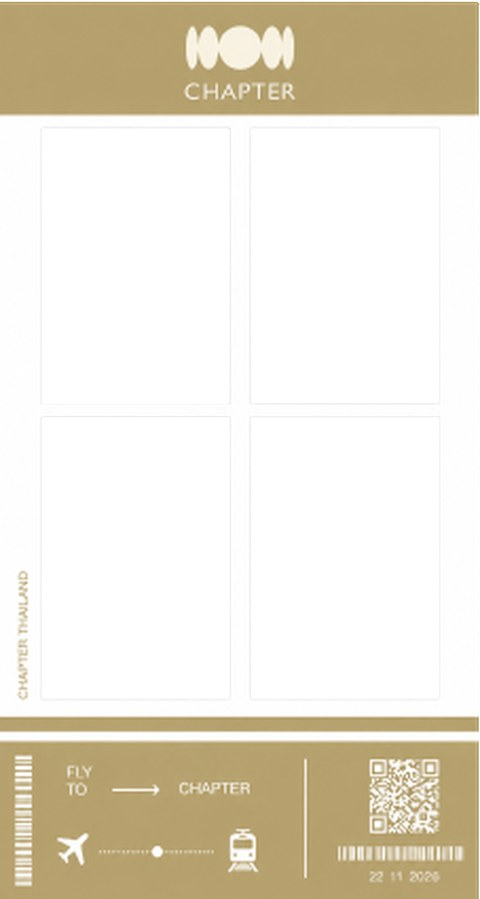
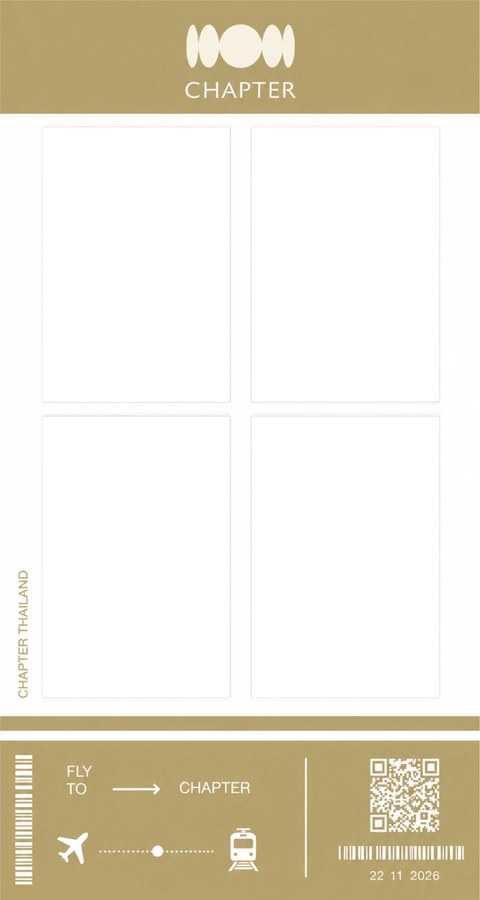
Use the designer's full-size CHAPTER frames; keep thin gold lettering on print
- chapter-navy.png / chapter-gold.png replaced with the 1067x2000 files;
  photo slots re-measured.
- Printing: mid-tone frame pixels with a weaker tint now also print
  black, so thin gold text on white ("CHAPTER THAILAND") no longer
  vanishes. Bright cream artwork is unaffected.

Claude-Session: https://claude.ai/code/session_01FynaJKtPuQELAnC1qT58CU

diff --git a/services/printer.js b/services/printer.js
@@ -98,6 +98,13 @@ const FRAME_INK_THRESHOLD = 170;
 // pale parts. A pixel counts as colourful when its strongest and weakest colour
 // channels differ by more than this; greys, black and white never do.
 const FRAME_COLOUR_THRESHOLD = 60;
+// Thin coloured lettering (such as small gold text on white) blends with the
+// paper when shrunk to print size and drops below that threshold. Mid-tone
+// pixels with a weaker tint still count as colourful; bright cream/white
+// artwork (a cream logo on a dark band) stays above FRAME_TINT_MAX_BRIGHTNESS
+// so it keeps printing as blank paper.
+const FRAME_TINT_THRESHOLD = 30;
+const FRAME_TINT_MAX_BRIGHTNESS = 215;
 const ASSETS_DIR = path.join(__dirname, '..', 'assets');
 
 // Returns one byte per print dot: 0 inside the photo slots, FRAME_PLAIN where
@@ -120,7 +127,9 @@ async function loadFrameMask(framePath, width, height) {
   for (let index = 0; index < mask.length; index++) {
     const [red, green, blue, alpha] = data.subarray(index * 4, index * 4 + 4);
     if (alpha < 128) continue;
-    const colourful = Math.max(red, green, blue) - Math.min(red, green, blue) > FRAME_COLOUR_THRESHOLD;
+    const spread = Math.max(red, green, blue) - Math.min(red, green, blue);
+    const brightness = (red + green + blue) / 3;
+    const colourful = spread > FRAME_COLOUR_THRESHOLD || (spread > FRAME_TINT_THRESHOLD && brightness < FRAME_TINT_MAX_BRIGHTNESS);
     mask[index] = colourful ? FRAME_COLOUR : FRAME_PLAIN;
   }
   return mask;

diff --git a/app.js b/app.js
@@ -118,21 +118,21 @@ let clipStopTimer = null;
 // Earlier event frames (km-tax-*, Snaplicious pic1-pic4) are still in assets/.
 const FRAME_LAYOUTS = {
   navy: {
-    src: 'assets/chapter-navy.png', width: 800, height: 1498,
+    src: 'assets/chapter-navy.png', width: 1067, height: 2000,
     slots: [
-      { x: 69, y: 218, width: 319, height: 462 },
-      { x: 417, y: 218, width: 319, height: 462 },
-      { x: 69, y: 699, width: 319, height: 462 },
-      { x: 417, y: 699, width: 319, height: 462 }
+      { x: 90, y: 283, width: 423, height: 615 },
+      { x: 555, y: 283, width: 423, height: 615 },
+      { x: 90, y: 924, width: 423, height: 615 },
+      { x: 555, y: 924, width: 423, height: 615 }
     ]
   },
   gold: {
-    src: 'assets/chapter-gold.png', width: 800, height: 1498,
+    src: 'assets/chapter-gold.png', width: 1067, height: 2000,
     slots: [
-      { x: 68, y: 212, width: 319, height: 463 },
-      { x: 416, y: 212, width: 319, height: 463 },
-      { x: 68, y: 692, width: 319, height: 474 },
-      { x: 416, y: 692, width: 319, height: 474 }
+      { x: 92, y: 280, width: 423, height: 617 },
+      { x: 556, y: 280, width: 423, height: 617 },
+      { x: 92, y: 922, width: 423, height: 631 },
+      { x: 556, y: 922, width: 423, height: 631 }
     ]
   }
 };

diff --git a/index.html b/index.html
@@ -117,6 +117,6 @@
     <div class="toast" id="toast" role="status" aria-live="polite"></div>
     <canvas id="photoCanvas" hidden></canvas>
   </main>
-  <script src="app.js?v=20261120a"></script>
+  <script src="app.js?v=20261120b"></script>
 </body>
 </html>
